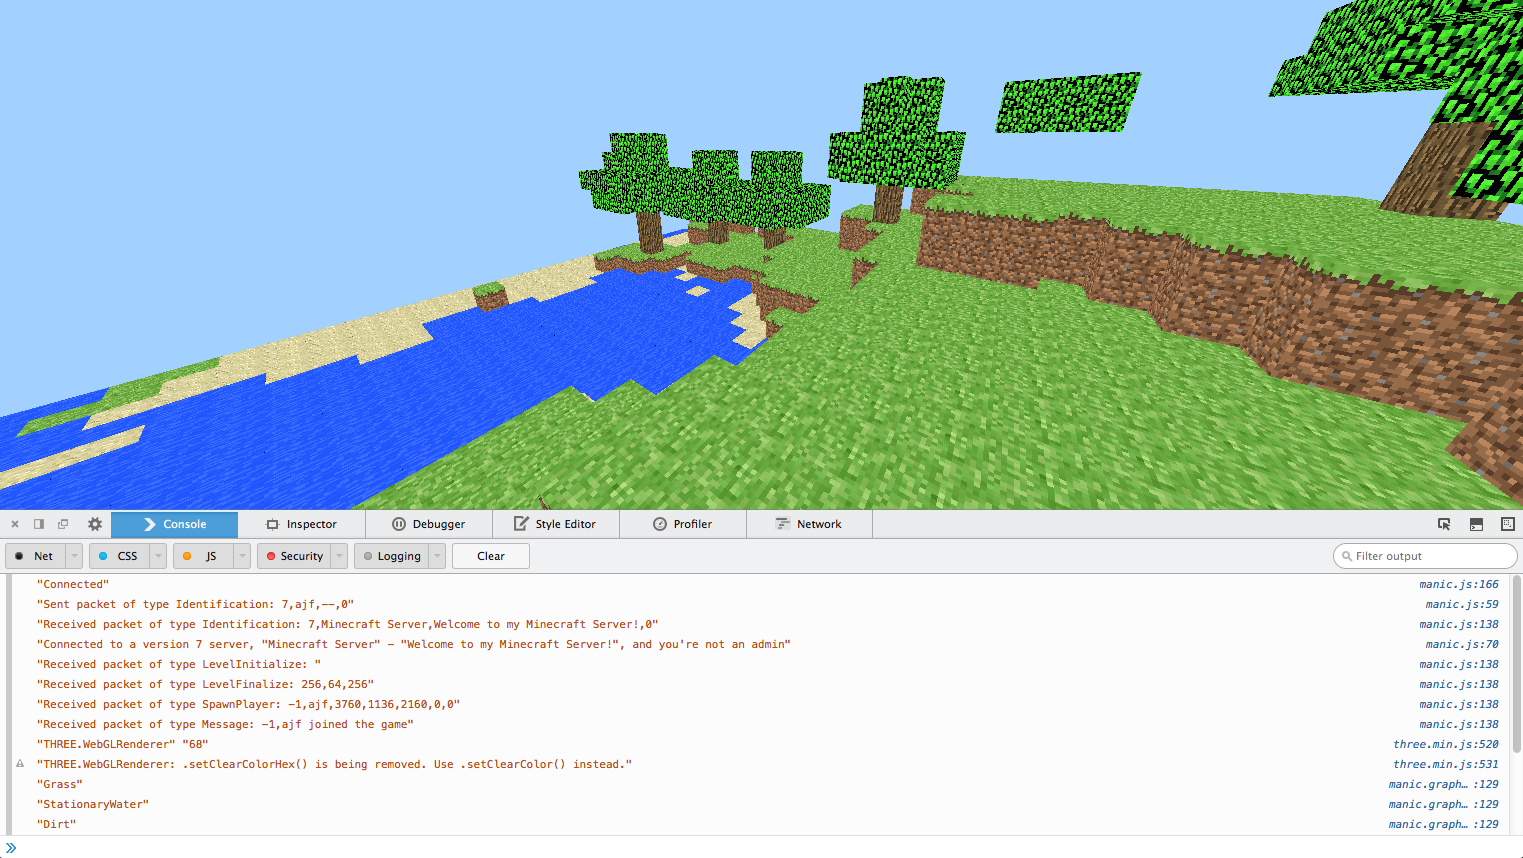
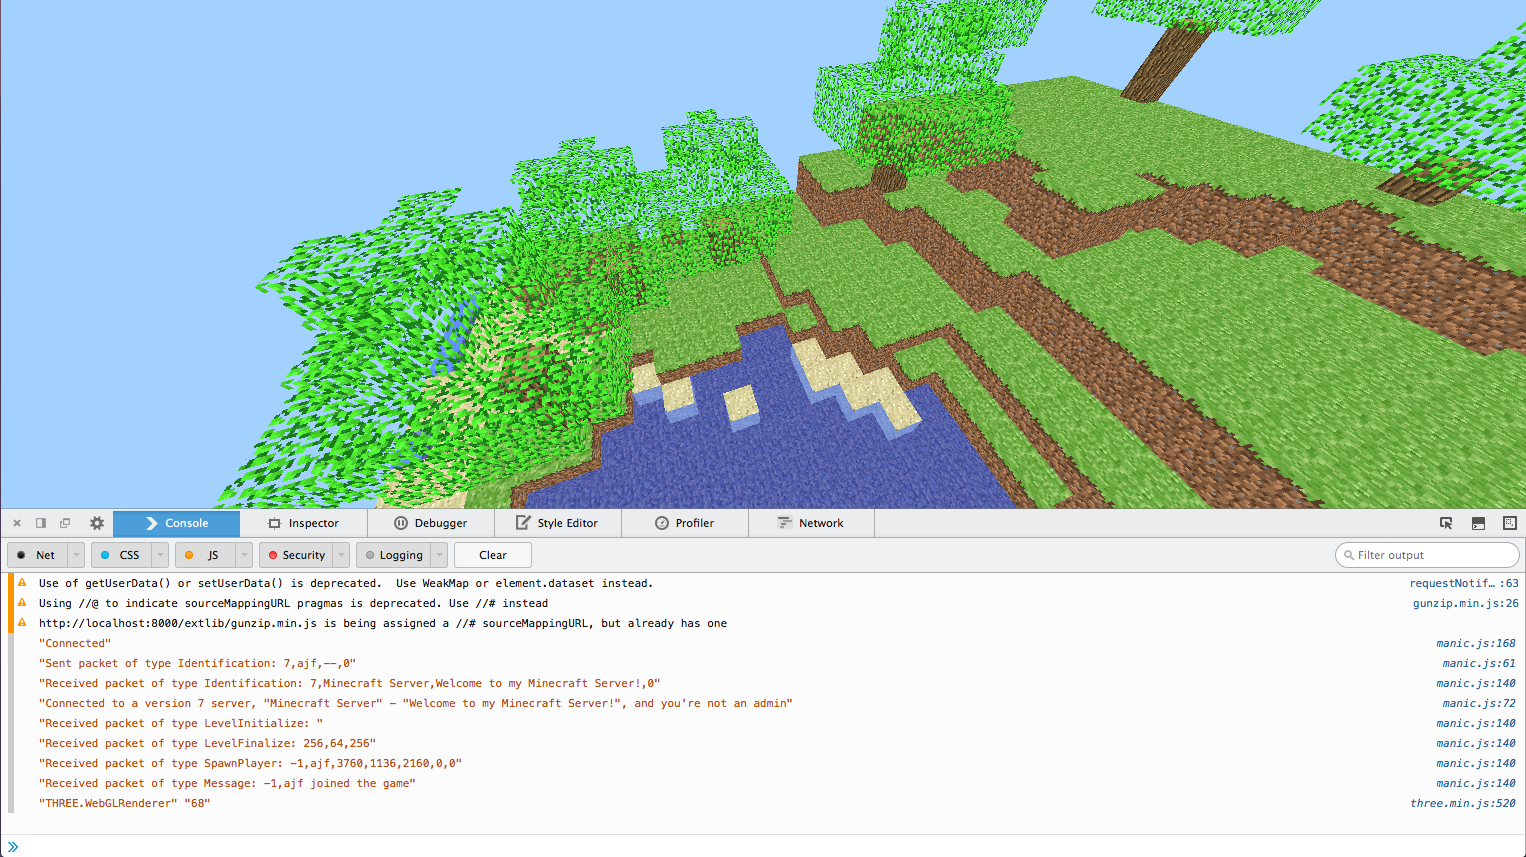
Raised limit and added new screenshot

diff --git a/htdocs/manic.graphics.js b/htdocs/manic.graphics.js
@@ -298,7 +298,7 @@ window.manic.graphics = (function (manic) {
             renderer.domElement.id = 'canvas';
             document.body.appendChild(renderer.domElement);
         
-            var limit = 16;
+            var limit = 32;
         
             camera.position.y = 74;
             camera.position.z = limit / 2 + Math.cos(camera.rotation.y) * limit / 2;

diff --git a/README.md b/README.md
@@ -29,9 +29,9 @@ Finally, we use a WebSocket-to-TCP bridge. I'm using the, quite frankly, rubbish
 OK, but is it worth using?
 ==========================
 
-No, not really just now. It'll display at quite poor FPS (no optimisation) a portion of the Minecraft world, and you can move around it, but it ignores most packets (it doesn't even display players) and your only way to communicate is by the console. But hey, we're getting there!
+No, not really just now. It'll display at quite poor FPS (limited optimisation) a portion of the Minecraft world, and you can move around it, but it ignores most packets (it doesn't even display players) and your only way to communicate is by the console. But hey, we're getting there!
 
 Why is it called manic.js?!
 ===========================
 
-It's a reference to [Manic Digger](http://manicdigger.sourceforge.net/), an open-source Minecraft Classic clone, of course. Since Notch objected, the Classic-compatible mode is disabled by default, but it's easy to re-enable by compiling it yourself. ;)
+It's a reference to [Manic Digger](http://manicdigger.sourceforge.net/), an open-source Minecraft Classic clone, of course. Since Notch objected, the Classic-compatible mode was disabled by default, but it's easy to re-enable by compiling Manic Digger yourself. (Shhh, don't tell Notch!)
